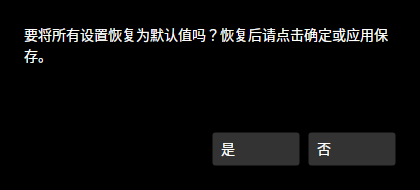
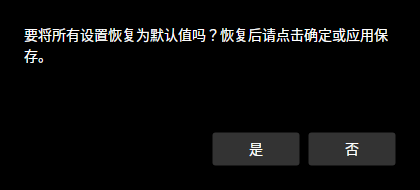
Center reset confirmation labels and refresh documentation screenshots

Changed region(s): [[0.7429, 0.7368, 0.8667, 0.8158], [0.5881, 0.7368, 0.619, 0.8421], [0.5262, 0.7368, 0.5571, 0.8421]]

diff --git a/tools/ScreenshotCapture/Program.cs b/tools/ScreenshotCapture/Program.cs
@@ -5,6 +5,7 @@ using Avalonia.Media.Imaging;
 using Avalonia.Styling;
 using Avalonia.Themes.Fluent;
 using Avalonia.Threading;
+using Avalonia.VisualTree;
 using CodexUsageCompanion.Configuration;
 using CodexUsageCompanion.Localization;
 using CodexUsageCompanion.Lifecycle;
@@ -62,4 +63,32 @@ foreach (var (language, filename) in new[]
     frame.Save(output, PngBitmapEncoderOptions.Default);
     Console.WriteLine($"Captured {filename} ({frame.PixelSize})");
     window.Close();
+
+    var text = UiText.For(language);
+    var settings = new SettingsWindow(new CompanionSettings { Theme = UiThemeOptions.Dark }, text);
+    settings.Show();
+    Capture(settings, filename.Replace("overlay-", "settings-"));
+    var resetButton = settings.GetVisualDescendants().OfType<Button>()
+        .Single(button => Equals(button.Content, text.ResetDefaultsAction));
+    resetButton.RaiseEvent(new Avalonia.Interactivity.RoutedEventArgs(Button.ClickEvent));
+    Dispatcher.UIThread.RunJobs();
+    var confirmation = settings.OwnedWindows.Single();
+    Capture(confirmation, filename.Replace("overlay-", "reset-confirmation-"));
+    confirmation.Close(false);
+    settings.Close();
+}
+
+void Capture(Window target, string filename)
+{
+    // Modal controls may need another layout pass after the window opens.
+    for (var pass = 0; pass < 3; pass++)
+    {
+        Dispatcher.UIThread.RunJobs();
+        AvaloniaHeadlessPlatform.ForceRenderTimerTick();
+    }
+    using var frame = target.CaptureRenderedFrame()
+        ?? throw new InvalidOperationException("Screenshot rendering failed.");
+    using var output = File.Create(Path.Combine(args[0], filename));
+    frame.Save(output, PngBitmapEncoderOptions.Default);
+    Console.WriteLine($"Captured {filename} ({frame.PixelSize})");
 }

diff --git a/src/CodexUsageCompanion/Ui/SettingsWindow.cs b/src/CodexUsageCompanion/Ui/SettingsWindow.cs
@@ -645,8 +645,21 @@ public sealed class SettingsWindow : Window
                 ShowInTaskbar = false,
                 WindowStartupLocation = WindowStartupLocation.CenterOwner
             };
-            var yes = new Button { Content = _text.YesAction, MinWidth = 88 };
-            var no = new Button { Content = _text.NoAction, MinWidth = 88, IsDefault = true };
+            var yes = new Button
+            {
+                Content = _text.YesAction,
+                MinWidth = 88,
+                HorizontalContentAlignment = HorizontalAlignment.Center,
+                VerticalContentAlignment = VerticalAlignment.Center
+            };
+            var no = new Button
+            {
+                Content = _text.NoAction,
+                MinWidth = 88,
+                IsDefault = true,
+                HorizontalContentAlignment = HorizontalAlignment.Center,
+                VerticalContentAlignment = VerticalAlignment.Center
+            };
             yes.Click += (_, _) => dialog.Close(true);
             no.Click += (_, _) => dialog.Close(false);
             var actions = new StackPanel

diff --git a/CHANGELOG.md b/CHANGELOG.md
@@ -30,6 +30,7 @@ The format is based on [Keep a Changelog](https://keepachangelog.com/en/1.0.0/),
 
 ### Fixed
 
+- Center Yes/No button labels horizontally and vertically in the Reset to defaults confirmation.
 - Measure the header and scrolling content directly before the ScrollViewer template is ready, so the initial window fits all visible cards instead of opening at the minimum height. The first display includes every visible card and the status line, with only the normal bottom inset.
 - Progress tracks and fills now resize with their cards for saved sizes, dragging, keyboard resizing, and font changes.
 - Skip Avalonia XAML compilation for the C#-only UI, avoiding an intermittent build-time DLL lock.

diff --git a/README.md b/README.md
@@ -47,6 +47,8 @@ The overlay images use sample usage data. Settings sections can be expanded by c
 
 ### Reset confirmation
 
+The **Yes/No** labels are centered horizontally and vertically within their buttons. Regenerate the overlay, settings, and confirmation images with `bash scripts/capture-screenshots.sh` (.NET 10 SDK required).
+
 | English (`en-US`) | Traditional Chinese (`zh-tw`) | Simplified Chinese (`zh-cn`) |
 | --- | --- | --- |
 | ![English reset confirmation](assets/screenshots/reset-confirmation-en.png) | ![Traditional Chinese reset confirmation](assets/screenshots/reset-confirmation-zh-tw.png) | ![Simplified Chinese reset confirmation](assets/screenshots/reset-confirmation-zh-cn.png) |

diff --git a/README.zh-CN.md b/README.zh-CN.md
@@ -47,6 +47,8 @@ Claude Codex Usage Companion 是一款在 Linux 上运行的本地开源 Claude 
 
 ### 恢复确认
 
+**是／否**按钮文字在按钮内水平和垂直居中。运行 `bash scripts/capture-screenshots.sh` 可重新生成面板、设置和确认窗口截图（需要 .NET 10 SDK）。
+
 | 英文（`en-US`） | 繁体中文（`zh-tw`） | 简体中文（`zh-cn`） |
 | --- | --- | --- |
 | ![英文恢复确认](assets/screenshots/reset-confirmation-en.png) | ![繁体中文恢复确认](assets/screenshots/reset-confirmation-zh-tw.png) | ![简体中文恢复确认](assets/screenshots/reset-confirmation-zh-cn.png) |

diff --git a/README.zh-TW.md b/README.zh-TW.md
@@ -47,6 +47,8 @@ Claude Codex Usage Companion 是一套在 Linux 上執行的本機開源 Claude 
 
 ### 還原確認
 
+**是／否**按鈕文字在按鈕內水平與垂直置中。執行 `bash scripts/capture-screenshots.sh` 可重新產生面板、設定與確認視窗截圖（需要 .NET 10 SDK）。
+
 | 英文（`en-US`） | 繁體中文（`zh-tw`） | 簡體中文（`zh-cn`） |
 | --- | --- | --- |
 | ![英文還原確認](assets/screenshots/reset-confirmation-en.png) | ![繁體中文還原確認](assets/screenshots/reset-confirmation-zh-tw.png) | ![簡體中文還原確認](assets/screenshots/reset-confirmation-zh-cn.png) |
